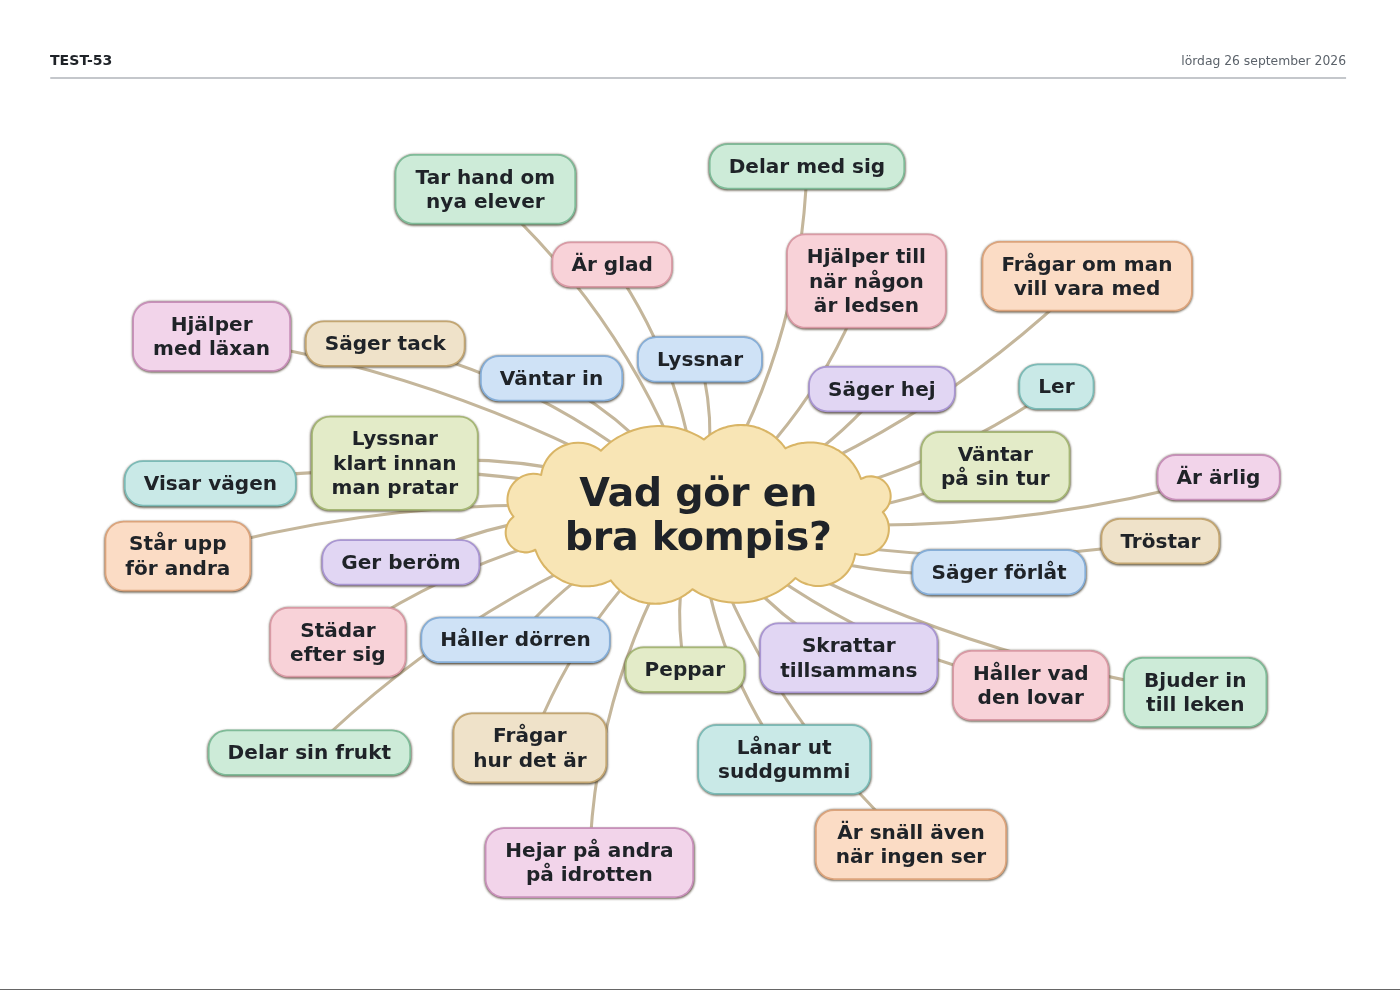
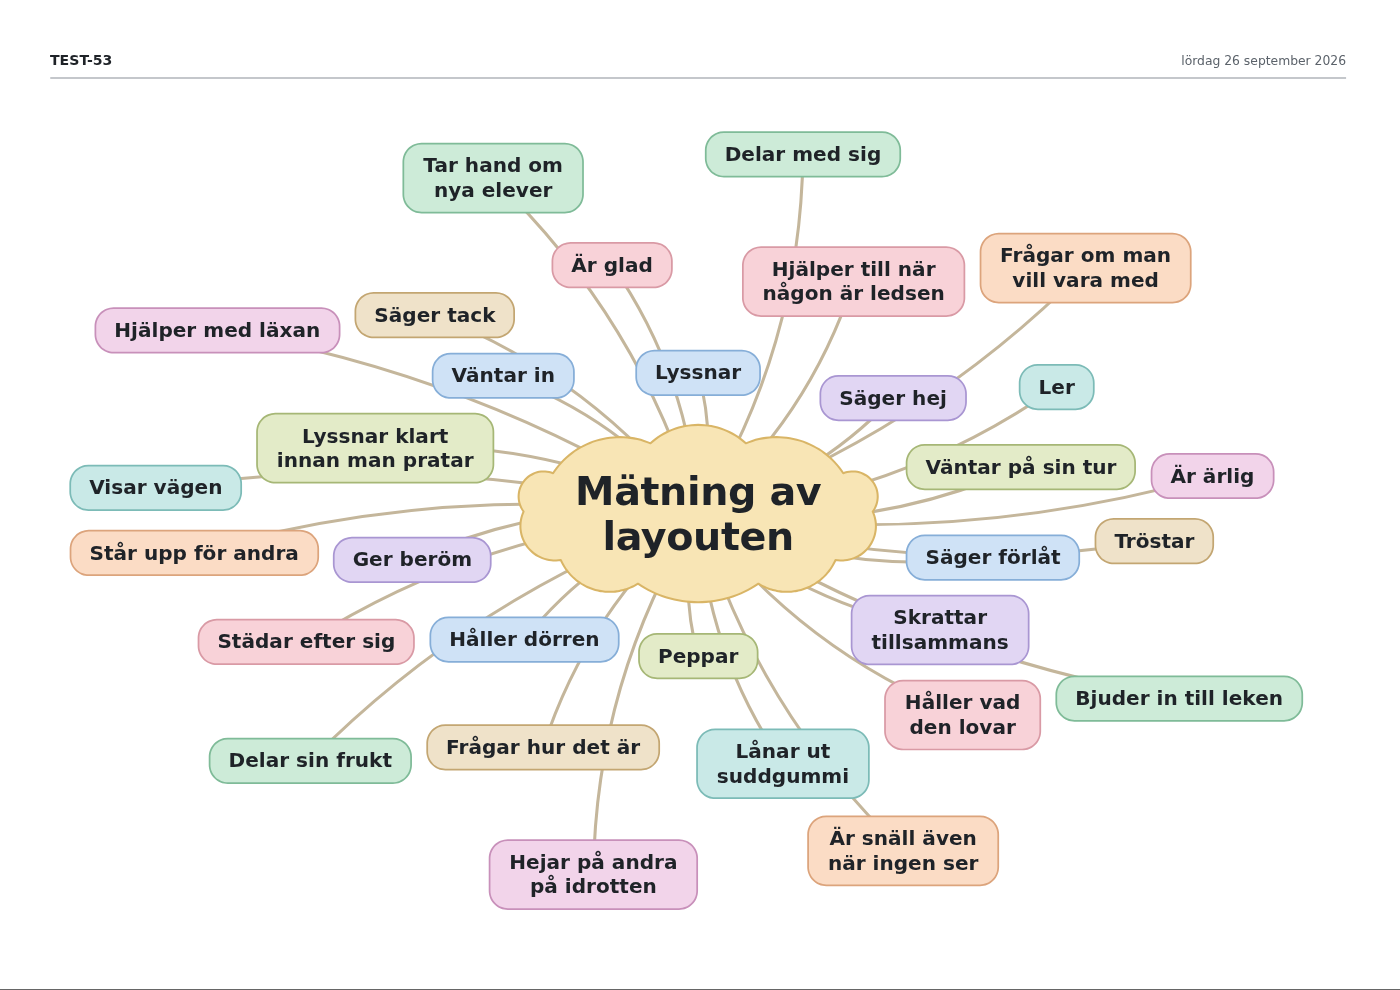
issue #53 (WIP): molnet anpassas till smalt format, bredare bubblor

Changed region(s): [[0.0307, 0.1212, 0.9521, 0.9394]]

diff --git a/js/lib/karta-layout.js b/js/lib/karta-layout.js
@@ -57,10 +57,15 @@ const SCALES = [1, 0.93, 0.86, 0.8, 0.74, 0.68, 0.62, 0.57, 0.52, 0.47, 0.42, 0.
 export function layoutMap({ w, h, cloud, bubbles, margin = 22, gap = 16 }) {
   let last = null;
   // Trångt (många bubblor): molnet ger plats — högst 22 % mindre vid 30.
+  // Smalt format (stående papper): molnet får aldrig ta mer än ~46 % av
+  // bredden, annars ryms inga bubblor bredvid det.
   const n = bubbles.length;
-  const crowd = n <= 12 ? 1 : Math.max(0.78, 1 - (n - 12) * 0.012);
+  const crowd = Math.min(
+    n <= 12 ? 1 : Math.max(0.78, 1 - (n - 12) * 0.012),
+    (w * 0.23) / Math.max(1, cloud.rx),
+  );
   for (const scale of SCALES) {
-    const cloudScale = Math.max(0.55, Math.min(crowd, Math.sqrt(scale)));
+    const cloudScale = Math.max(0.45, Math.min(crowd, Math.sqrt(scale)));
     const c = { rx: cloud.rx * cloudScale, ry: cloud.ry * cloudScale };
     const sized = bubbles.map((b) => ({ w: b.w * scale, h: b.h * scale, pin: b.pin ?? null }));
     for (const rings of ringOptions(sized.length)) {

diff --git a/css/modes/karta.css b/css/modes/karta.css
@@ -108,7 +108,7 @@
   left: 0;
   box-sizing: border-box;
   width: max-content;
-  max-width: 10.5em;
+  max-width: 12.5em;
   padding: 0.42em 0.9em 0.48em;
   font-size: var(--kt-font, 32px);
   font-weight: 600;
